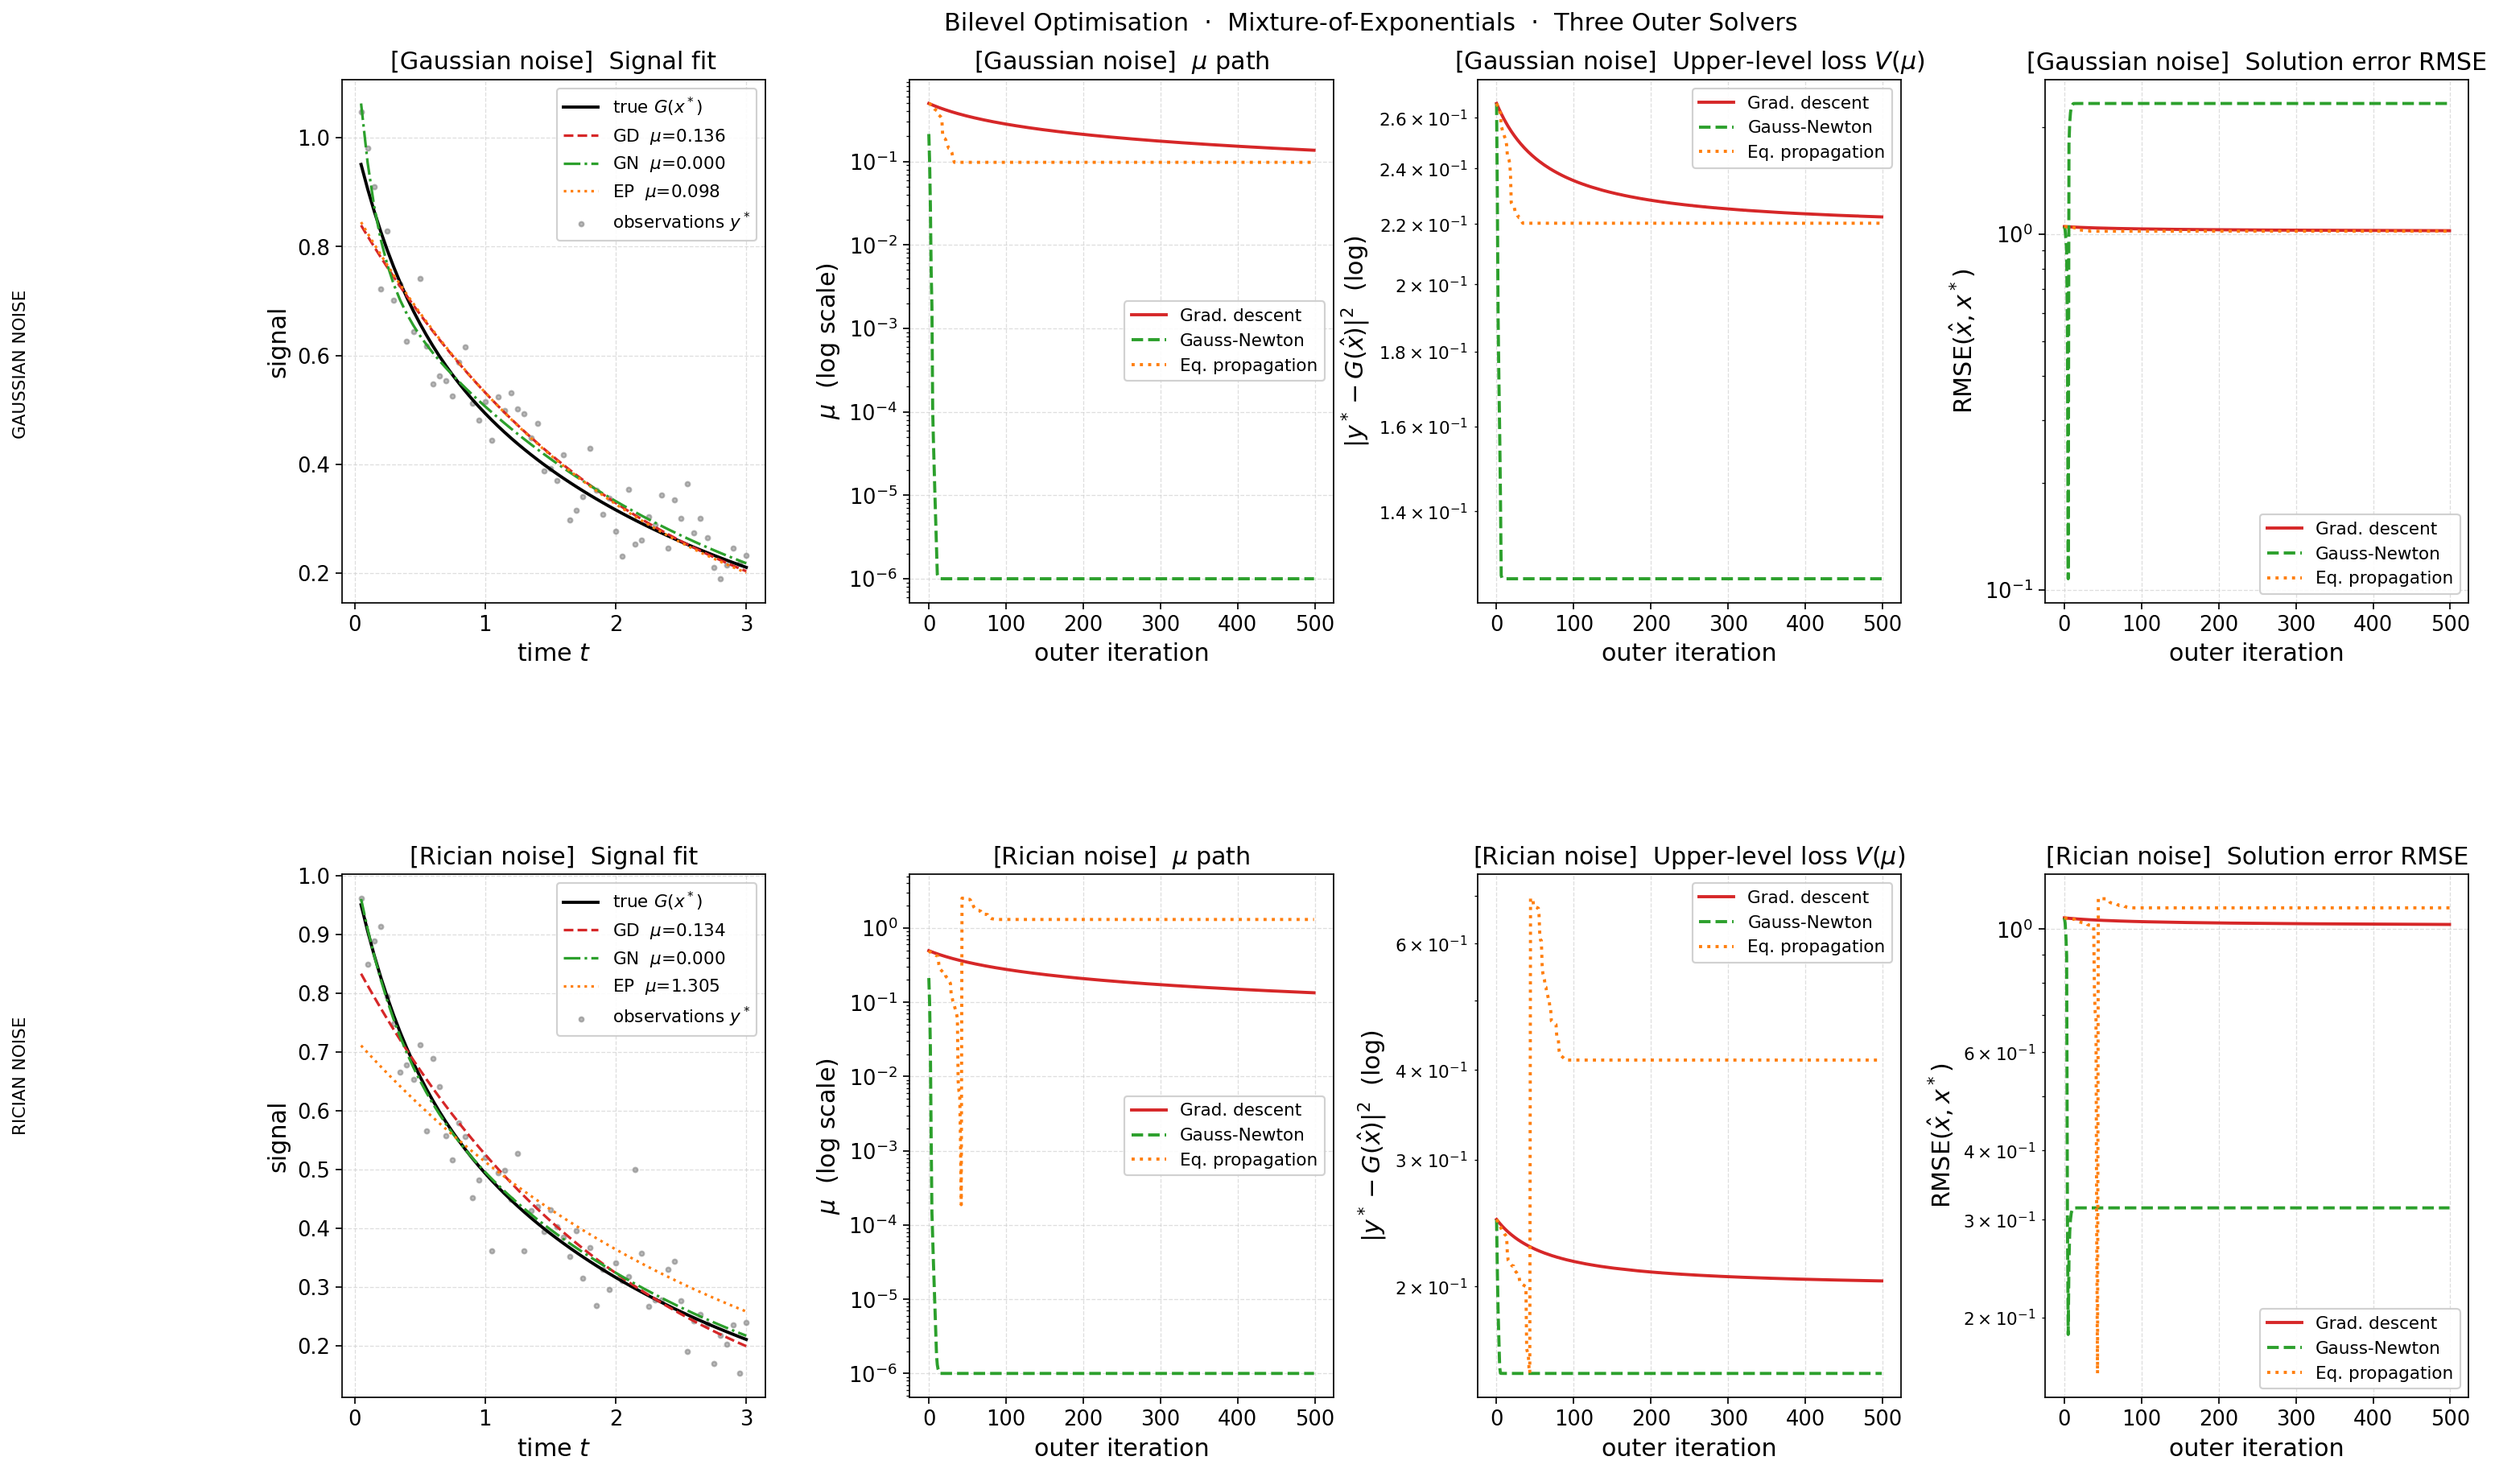
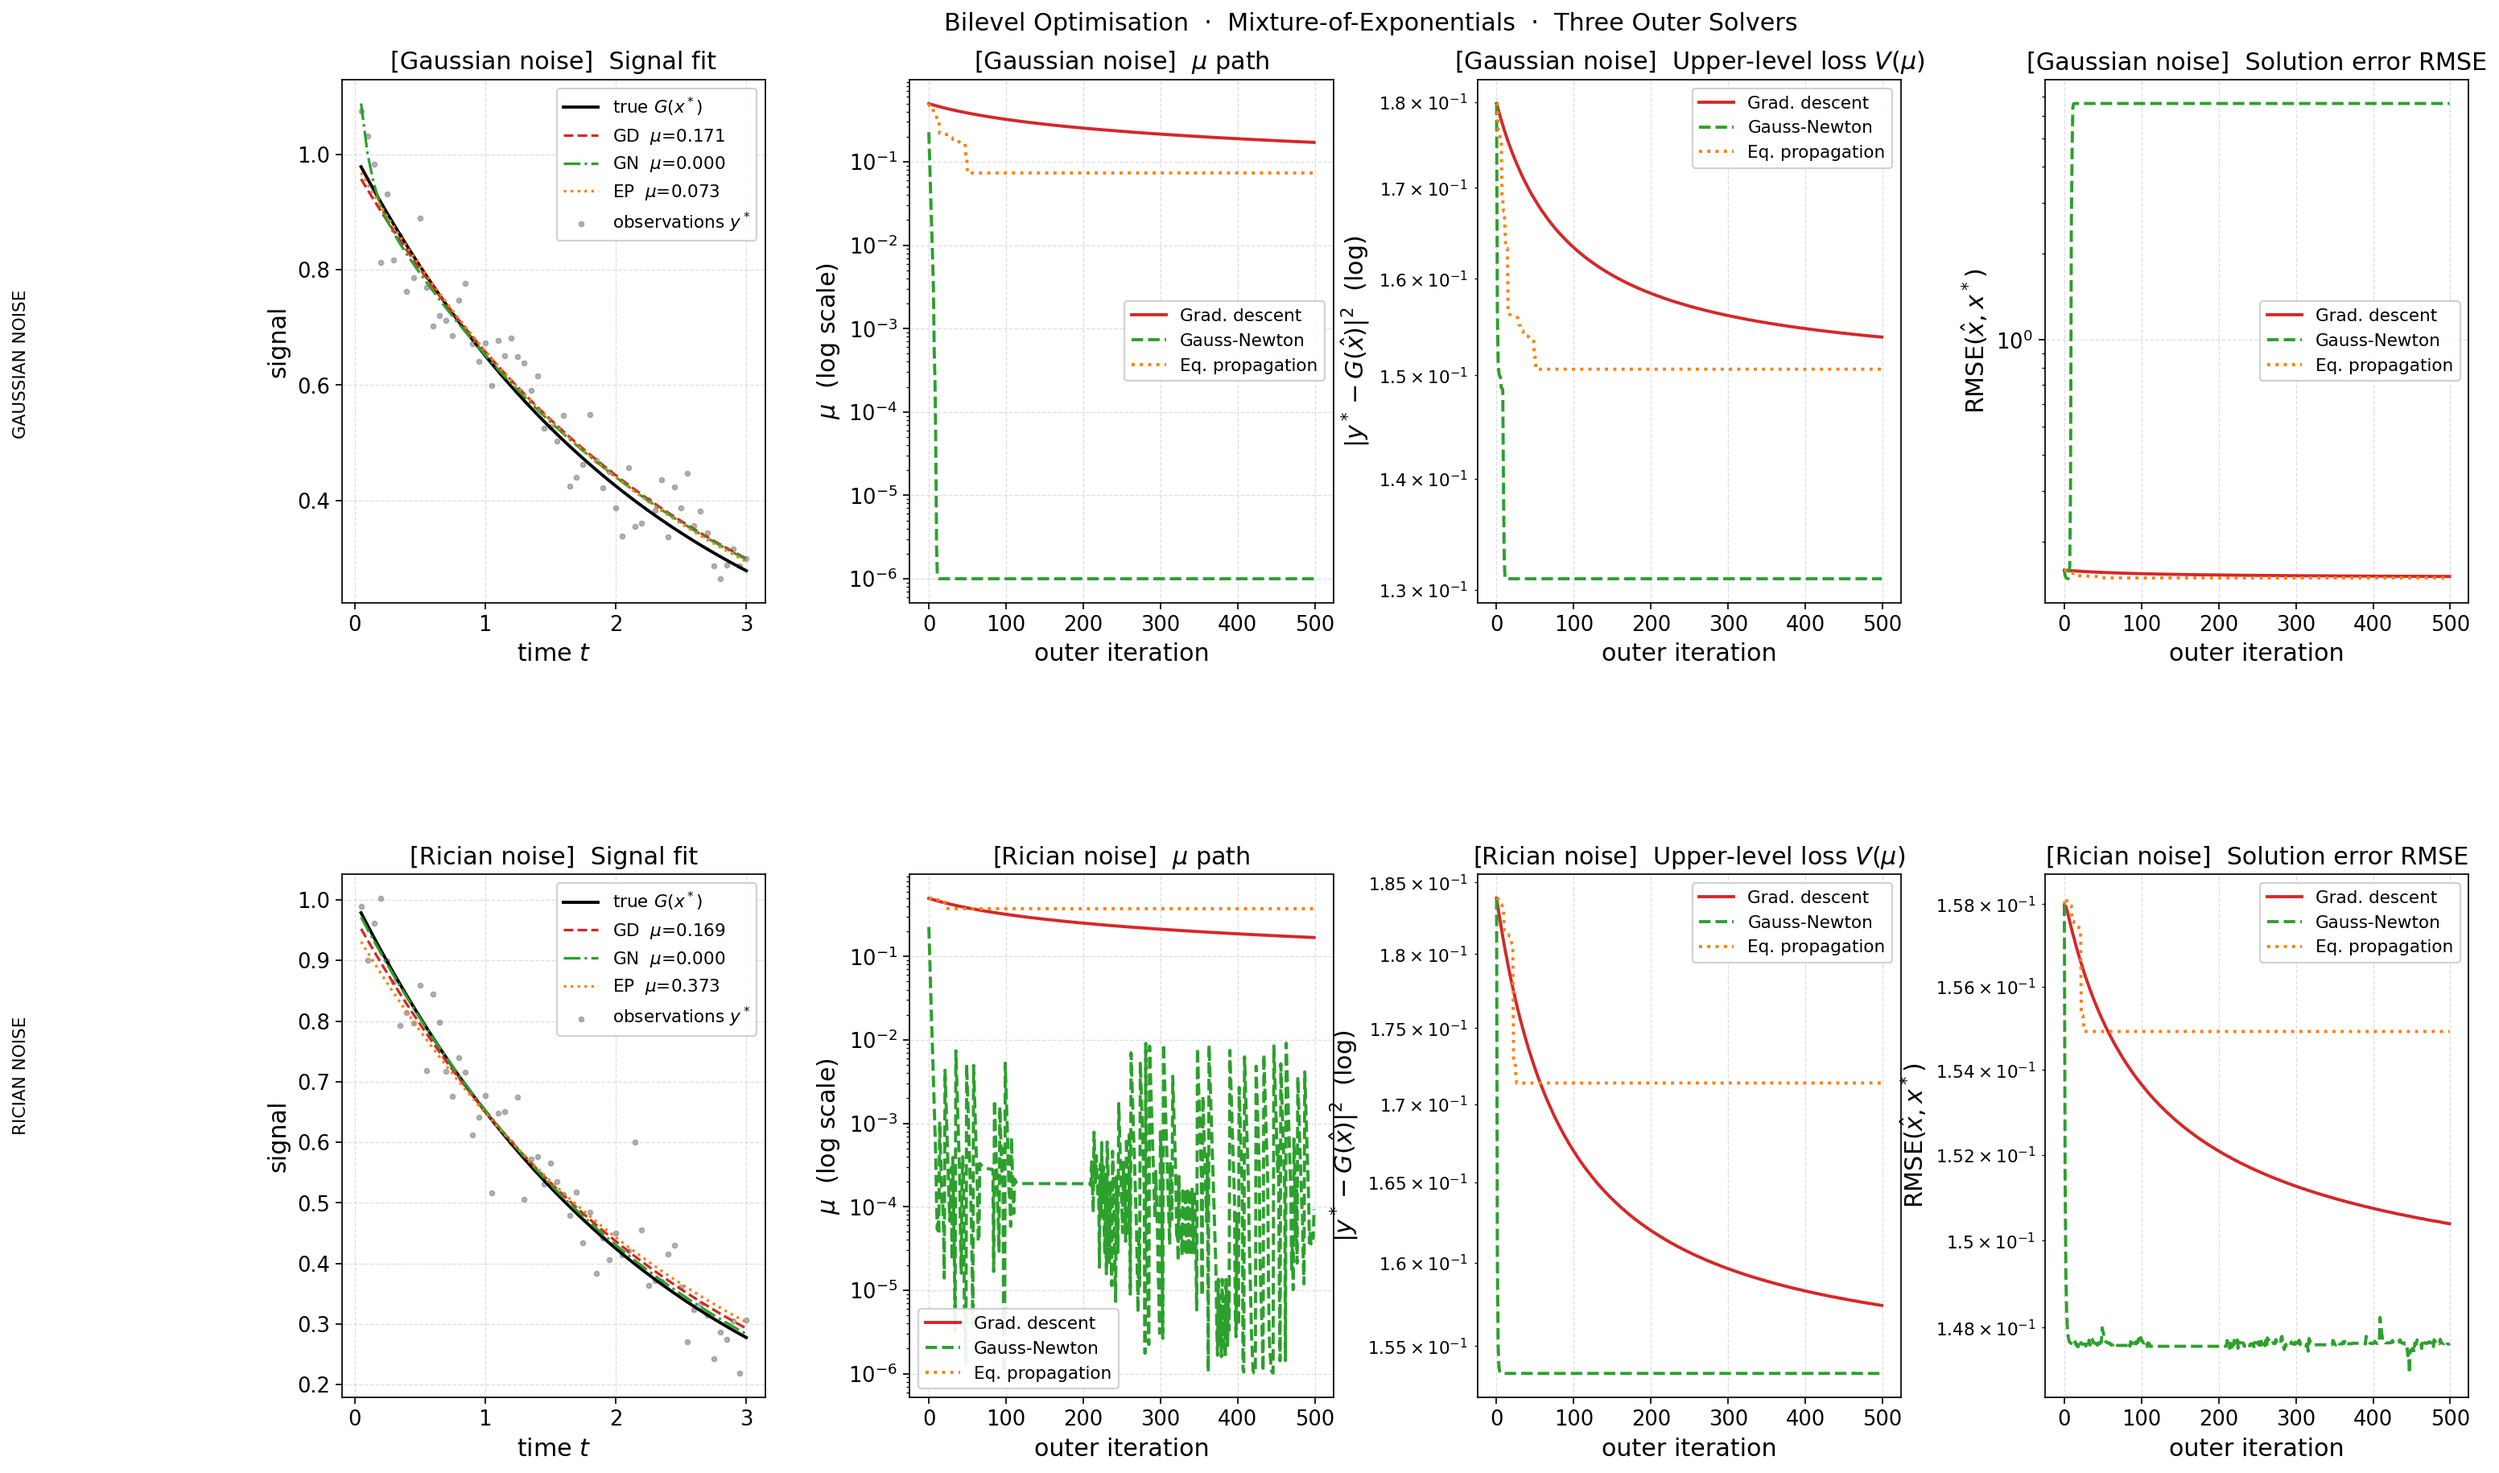
added environment file

diff --git a/rician_bilevel.py b/rician_bilevel.py
@@ -314,10 +314,10 @@ def ep_gradient_descent_mu(y, t, x_star, mu_init=1.0, beta=0.01, lr=0.1, n_steps
 # 7.  Synthetic experiment
 # ─────────────────────────────────────────────────────────────────────────────
 
-def run_experiment(noise_type="gaussian", sigma=0.05):
+def run_experiment(noise_type="gaussian", sigma=0.00):
     t       = torch.linspace(0.05, 3.0, 60)
     c_true  = torch.tensor([0.7, 0.3])
-    lam_true= torch.tensor([0.4, 2.5])
+    lam_true= torch.tensor([0.4, 0.5])
     x_star  = torch.cat([c_true, lam_true])
     G_true  = biexponential(t, c_true, lam_true)
 
